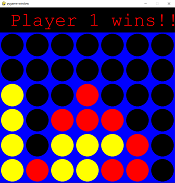
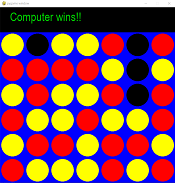
better heuristic

diff --git a/src/games/connect_four.py b/src/games/connect_four.py
@@ -13,7 +13,7 @@ EMPTY = 0
 PLAYER_PIECE = 1
 AI_PIECE = 2
 DRAW = 3
-WIN_SCORE = 100000
+WIN_SCORE = 10000000
 
 #============================================================================
 # MiniMaxPlayer class for Connect Four Game
@@ -30,7 +30,7 @@ class MiniMaxPlayer(Player):
         return move
 
     def evaluate(self, game, actual_depth):
-        return self.eval1(game, actual_depth)
+        return self.eval2(game, actual_depth)
 
     def eval1(self, game, actual_depth):
         opponentId = game.get_opponent(self.id)
@@ -48,10 +48,44 @@ class MiniMaxPlayer(Player):
             
         return WIN_SCORE*fourInRow + 100*threeInRow + twoInRow
 
+    def eval2(self, game, actual_depth):
+        opponentId = game.get_opponent(self.id)
+        freeInRow = 0
+        oppFreeInRow = 0
+        center = 0
+        oppCenter = 0
+        w1 = 1
+        w2 = 1
+
+        if game.check_win(self.id):
+            return WIN_SCORE
+
+        elif game.check_win(opponentId):
+            return -WIN_SCORE
+        
+        for array in game.get_center_columns():
+            center = array.count(self.id)
+            oppCenter = array.count(opponentId)
+
+        for window in game.get_windows():
+            freeInRow += self.countFree(window, self.id, opponentId)
+            oppFreeInRow += self.countFree(window, opponentId, self.id)
+
+        finalScore = (w1*freeInRow + w2*center)
+        finalScore -= (w1*oppFreeInRow + w2*oppCenter)
+            
+        return finalScore
+
     def count(self, window, playerId, size):
         if window.count(playerId) == size and window.count(EMPTY) == len(window) - size:
             return 1
         return 0
+
+    def countFree(self, window, playerId, opponentId):
+        countPlayer =  window.count(playerId)
+        countOpponent =  window.count(opponentId)
+        
+        return countPlayer if countOpponent == 0 else 0
 
 #============================================================================
 # Class ConnectFourGame
@@ -121,8 +155,15 @@ class ConnectFourGame(Game):
     def get_cols(self):
         return self.cols
 
-    def get_center_column(self):
-        return [int(i) for i in list(self.board[:, self.cols//2])]
+    def get_center_columns(self):
+        result = []
+        central_col = self.cols//2
+        left_central_col = central_col - 1
+        right_central_col = central_col + 1
+        result.append([int(i) for i in list(self.board[:, left_central_col])])
+        result.append([int(i) for i in list(self.board[:, central_col])])
+        result.append([int(i) for i in list(self.board[:, right_central_col])])
+        return result
 
     def get_windows(self):
         windows = []

diff --git a/tests/test_connect_four.py b/tests/test_connect_four.py
@@ -142,9 +142,9 @@ class TestConnectFourClass(unittest.TestCase):
         self.assertEqual(self.aiPlayer.evaluate(self.game, 0), 0)
 
         self.game.do_move(3, self.aiPlayer.get_id())
-        self.assertEqual(self.aiPlayer.evaluate(self.game, 0), 0)
+        self.assertEqual(self.aiPlayer.evaluate(self.game, 0), 7)
         self.game.do_move(3, self.aiPlayer.get_id())
-        self.assertEqual(self.aiPlayer.evaluate(self.game, 0), 1)
+        self.assertEqual(self.aiPlayer.evaluate(self.game, 0), 17)
 
         self.game.undo()
         self.game.undo()
@@ -164,7 +164,7 @@ class TestConnectFourClass(unittest.TestCase):
         self.game.do_move(2, AI_PIECE)
         self.game.do_move(2, AI_PIECE)
 
-        self.assertEqual(self.aiPlayer.evaluate(self.game, 0), 203)
+        self.assertEqual(self.aiPlayer.evaluate(self.game, 0), 13)
 
 if __name__ == '__main__':
     unittest.main()
